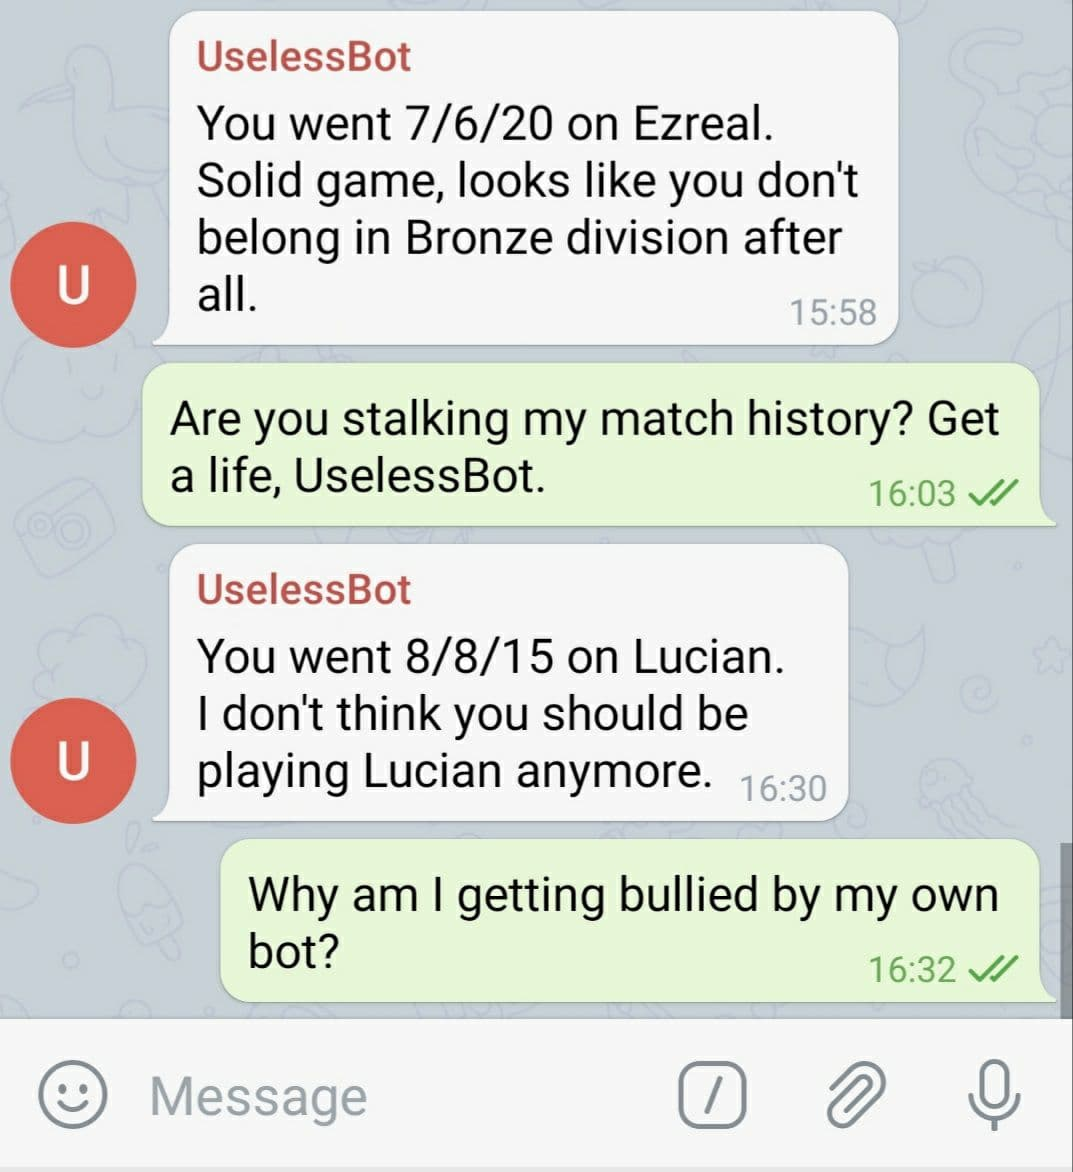
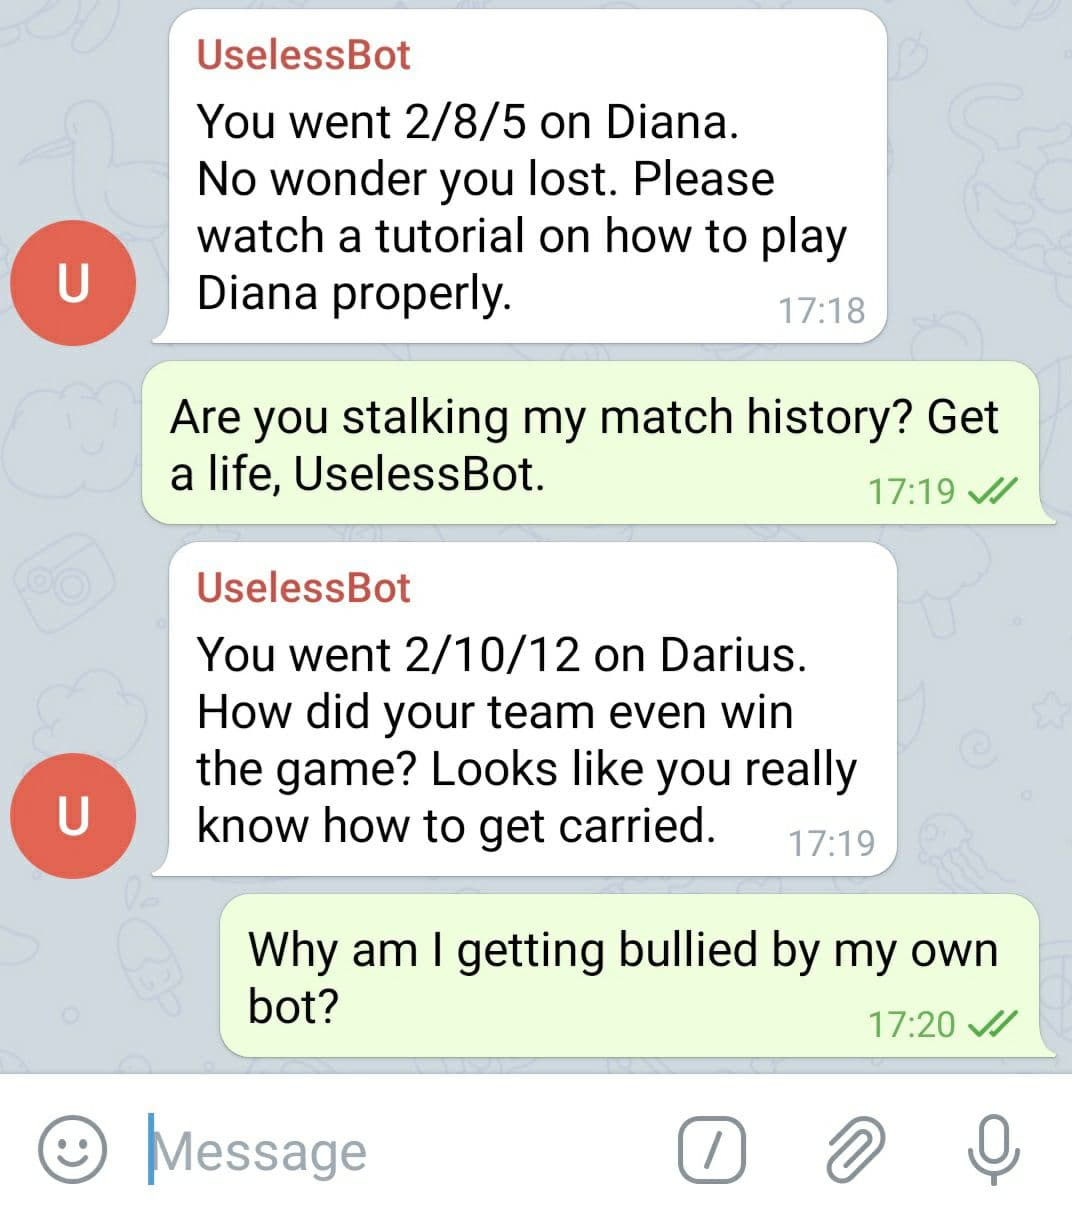
Cleanup.

Changed region(s): [[0.0, 0.0, 1.0, 0.9829]]

diff --git a/src/main/kotlin/leagueOfLegends/LeagueOfLegendsClient.kt b/src/main/kotlin/leagueOfLegends/LeagueOfLegendsClient.kt
@@ -20,13 +20,13 @@ import java.util.*
 // Additionally, it checks if the given user had a poor performance in any of the new matches.
 class LeagueOfLegendsClient(val apiKey: String, val region: String, val username: String) {
 
-    val dataDirectory = "league_of_legends${File.separator}player_data${File.separator}$username"
-    val matchHistoryFilePath = "$dataDirectory${File.separator}match_history_debug.json" // TODO: Remove debug
-    val MAX_NUMBER_OF_REQUESTS = 100 // Riot Games only allows 100 requests per 2 minutes.
-    lateinit var mostRecentMatchTimestamp: Calendar
-    lateinit var champions: JSONObject
-    lateinit var account: JSONObject
-    lateinit var matchHistory: JSONArray
+    private val dataDirectory = "league_of_legends${File.separator}player_data${File.separator}$username"
+    private val matchHistoryFilePath = "$dataDirectory${File.separator}match_history.json"
+    private val MAX_NUMBER_OF_REQUESTS = 100 // Riot Games only allows 100 requests per 2 minutes.
+    private lateinit var mostRecentMatchTimestamp: Calendar
+    private lateinit var champions: JSONObject
+    private lateinit var account: JSONObject
+    private lateinit var matchHistory: JSONArray
     lateinit var poorPerformances : LinkedList<Performance>
 
 
@@ -55,17 +55,17 @@ class LeagueOfLegendsClient(val apiKey: String, val region: String, val username
             findPoorPerformances()
         }
 
-        FileHandler.writeToFile("$matchHistoryFilePath", matchHistory) // TODO: Remove the debug path
+        FileHandler.writeToFile(matchHistoryFilePath, matchHistory)
         mostRecentMatchTimestamp = timestampToCalendar(getMatchFromHistory(0).getLong("timestamp"))
     }
 
     private fun fetchChampionsInformation() {
         // Get current patch version.
-        var request = DDragonRequest(apiKey, region, "api/versions.json")
+        var request = DDragonRequest(apiKey, "api/versions.json")
         var response: JSONObject = request.sendRequest(encapsulateJSONArray = true)
         val latestVersion = (response["versions"] as JSONArray)[0]
 
-        request = DDragonRequest(apiKey, region, "cdn/$latestVersion/data/en_US/champion.json")
+        request = DDragonRequest(apiKey, "cdn/$latestVersion/data/en_US/champion.json")
         response = request.sendRequest()
         champions = response.getField("data")
     }
@@ -85,7 +85,7 @@ class LeagueOfLegendsClient(val apiKey: String, val region: String, val username
         return if (response.isEmpty) JSONArray() else response["matches"] as JSONArray
     }
 
-    fun fetchMatchInfo(gameId: Long): JSONObject {
+    private fun fetchMatchInfo(gameId: Long): JSONObject {
         val request = LoLMatchInfoRequest(apiKey, region, gameId.toString())
         return request.sendRequest()
     }

diff --git a/src/main/kotlin/leagueOfLegends/Performance.kt b/src/main/kotlin/leagueOfLegends/Performance.kt
@@ -1,6 +1,7 @@
 package leagueOfLegends
 
 import org.json.JSONObject
+import kotlin.math.exp
 
 // A Performance contains all the information about a given user in a given match. This information includes
 // the number of kills, deaths etc.
@@ -9,10 +10,6 @@ import org.json.JSONObject
 class Performance(val match: JSONObject, val protagonistStats: JSONObject, val protagonistTeam: JSONObject,
                   val antagonistStats: JSONObject?, val champion: JSONObject, val win: Boolean) {
 
-//    init {
-//        // TODO: Delete block
-//        println("\n$protagonistStats")
-//    }
     val kills = protagonistStats.getInt("kills")
     val deaths = protagonistStats.getInt("deaths")
     val assists = protagonistStats.getInt("assists")
@@ -22,10 +19,7 @@ class Performance(val match: JSONObject, val protagonistStats: JSONObject, val p
     var isPoor: Boolean = isPoorPerformance()
 
     private fun isPoorPerformance(): Boolean {
-        // If the protagonistStats lost the game and had a negative kda, it is considered a bad performance.
-        println("performanceScore: $performanceScore")
-        return true //TODO: Remove
-//        return !win && kda < 1
+        return performanceScore < 0.3
     }
 
     /*
@@ -44,8 +38,8 @@ class Performance(val match: JSONObject, val protagonistStats: JSONObject, val p
         return (teamScore + 2 * individualScore) / 3
     }
 
-    fun computeIndividualScore(localKda: Double): Double {
-        val kdaScore = computeNormalizedScore(kda)
+    private fun computeIndividualScore(localKda: Double): Double {
+        val kdaScore = computeNormalizedScore(localKda)
         return if (antagonistStats != null) {
             val duelScore = computeDuelScore()
             (kdaScore + duelScore) / 2
@@ -55,7 +49,7 @@ class Performance(val match: JSONObject, val protagonistStats: JSONObject, val p
     }
 
     private fun computeDuelScore(): Double {
-        // The following branch is required to smart-cast "angatonistStats" to a non-null type.
+        // The following branch is required to smart-cast "antagonistStats" to a non-null type.
         if (antagonistStats == null) {
             return -1.0
         }
@@ -87,7 +81,7 @@ class Performance(val match: JSONObject, val protagonistStats: JSONObject, val p
      *  - As the KDA goes towards infinity, the score goes towards 1.
      */
     private fun computeNormalizedScore(value: Double) =
-        if (value <= 1)  value/2 else 1/(1+Math.exp(1-value))
+        if (value <= 1)  value/2 else 1/(1+ exp(1-value))
 
     override fun toString(): String {
         "You went $kills/$deaths/$assists on $champion"

diff --git a/src/main/kotlin/leagueOfLegends/MessageGenerator.kt b/src/main/kotlin/leagueOfLegends/MessageGenerator.kt
@@ -7,7 +7,7 @@ object MessageGenerator {
     fun generateMessage(performance: Performance): String {
         val potentialMessages = if (performance.win) generateWinMessage(performance) else generateDefeatMessage(performance)
         return "${generateGameSummary(performance)}$LINE_BREAK" +
-               "${potentialMessages.random()}"
+               potentialMessages.random()
     }
 
     private fun generateGameSummary(performance: Performance): String {
@@ -18,13 +18,14 @@ object MessageGenerator {
     private fun generateDefeatMessage(performance: Performance): List<String> {
         val champion = performance.champion.getString("name")
         val individualScore = performance.individualScore
+        val phrase = "No wonder you lost."
         return if (individualScore < 0.5) {
             listOf(
-                "Are you intentionally losing games to start smurfing again?",
+                "$phrase Are you intentionally losing games to start smurfing again?",
                 "Here is a link to uninstall League of Legends: https://gamerone.gg/how-to-uninstall-league-of-legends." +
-                        "Please follow the instructions.",
-                "I don't think you should be playing $champion anymore.",
-                "Please watch a tutorial on how to play $champion properly."
+                        " Please follow the instructions.",
+                "$phrase I don't think you should be playing $champion anymore.",
+                "$phrase Please watch a tutorial on how to play $champion properly."
             )
         } else if (individualScore < 0.7) {
             listOf(
@@ -42,11 +43,12 @@ object MessageGenerator {
 
     private fun generateWinMessage(performance: Performance): List<String> {
         val individualScore = performance.individualScore
+        val phrase = "How did your team even win the game?"
         return if (individualScore < 0.5) {
             listOf(
-                "Looks like all you really know how to get carried.",
-                "How can you play so badly when you are in such a good team?",
-                "Boosted."
+                "$phrase Looks like you really know how to get carried.",
+                "$phrase How can you play so badly when you are in such a good team?",
+                "$phrase Boosted."
             )
         } else if (individualScore < 0.7) {
             listOf(

diff --git a/src/main/kotlin/requests/Request.kt b/src/main/kotlin/requests/Request.kt
@@ -15,19 +15,25 @@ import kotlin.system.exitProcess
 // The class provides logic to deal with different (successful and failed) HTTP responses.
 abstract class Request(val apiKey: String) {
 
-    var logger: Logger = Logger.getLogger(Request::class.java)
+    private var logger: Logger = Logger.getLogger(Request::class.java)
 
-    val MAX_FAILED_REQUEST = 5
-    val BACKOFF_TIME: Long = 2000
+    // Some API servers (e.g. Riot Games) have rate limits that are computed for every 2 minutes.
+    // This is why it makes sense to back off up to a minutes between attempted requests.
+    private val MAX_FAILED_REQUEST = 7
+    private val INITIAL_BACKOFF_TIME: Long = 2000
+    private var currentBackoffTime = INITIAL_BACKOFF_TIME // Increases exponentially
 
     abstract fun getUrl(): String
 
+    private fun cleanUrl(urlString: String): String {
+        return urlString.replace(" ", "+")
+    }
+
     abstract fun setHeader(con: HttpURLConnection)
 
-    fun sendSingleRequest(encapsulateJSONArray: Boolean): JSONObject {
+    private fun sendSingleRequest(encapsulateJSONArray: Boolean): JSONObject {
         val response: JSONObject?
-        val urlString = getUrl()
-        println("urlString: $urlString") // TODO: Delete
+        val urlString = cleanUrl(getUrl())
         val url = URL(urlString)
         val con = url.openConnection() as HttpURLConnection
         setHeader(con)
@@ -75,6 +81,7 @@ abstract class Request(val apiKey: String) {
             try {
                 accountResponse = sendSingleRequest(encapsulateJSONArray)
                 numFailedRequests = 0
+                currentBackoffTime = INITIAL_BACKOFF_TIME
             } catch (e: Exception) {
                 numFailedRequests++
                 if (numFailedRequests >= MAX_FAILED_REQUEST) {
@@ -83,7 +90,8 @@ abstract class Request(val apiKey: String) {
                     exitProcess(-1)
                 }
 
-                Thread.sleep(BACKOFF_TIME)
+                Thread.sleep(currentBackoffTime)
+                currentBackoffTime *= 2
             }
         }
 

diff --git a/src/main/kotlin/Controller.kt b/src/main/kotlin/Controller.kt
@@ -3,12 +3,12 @@ import leagueOfLegends.MessageGenerator
 import org.apache.log4j.Logger
 import requests.TelegramSendMessageRequest
 import telegram.TelegramBot
-import java.util.Properties;
+import java.util.Properties
 
 // The Controller is the central unit of the program. Periodically, it uses the LeagueOfLegendsClient to fetch
 // the latest match history for a given user. If the user had a poor performance in any of the matches, the
 // Controller uses the TelegramBot to send a message based on that performance to the user.
-class Controller(val properties: Properties) {
+class Controller(properties: Properties) {
 
     var logger: Logger = Logger.getLogger(Controller::class.java)
 
@@ -36,7 +36,7 @@ class Controller(val properties: Properties) {
                 val message = MessageGenerator.generateMessage(poorPerformances.first)
                 print(message)
                 val request = TelegramSendMessageRequest(telegramBot.apiKey, telegramBot.chatId, message)
-                val response = request.sendRequest()
+                request.sendRequest()
             }
 
             logger.info("Sleeping for $sleepDuration ms.")

diff --git a/src/main/kotlin/leagueOfLegends/MatchDataOrganizer.kt b/src/main/kotlin/leagueOfLegends/MatchDataOrganizer.kt
@@ -21,8 +21,7 @@ class MatchDataOrganizer(val match: JSONObject, val champions: JSONObject, val p
 
         val win = protagonistTeam.get("win") == "Win"
         val champion = getChampion(protagonist.getInt("championId"))
-        val performance = Performance(match, protagonistStats, protagonistTeam, antagonistStats, champion, win)
-        return performance
+        return Performance(match, protagonistStats, protagonistTeam, antagonistStats, champion, win)
     }
 
     private fun getProtagonist(): JSONObject {

diff --git a/src/main/kotlin/FileHandler.kt b/src/main/kotlin/FileHandler.kt
@@ -9,7 +9,7 @@ import java.util.Properties
 // The FileHandler is responsible for I/O operations. Its main purpose is to read and write files.
 object FileHandler {
 
-    val CONFIG_FILE_PATH = "src${File.separator}main${File.separator}resources${File.separator}config.properties"
+    private val CONFIG_FILE_PATH = "src${File.separator}main${File.separator}resources${File.separator}config.properties"
 
     fun fileExists(filePath: String): Boolean {
         return File(filePath).exists()

diff --git a/src/main/kotlin/requests/DDragonRequest.kt b/src/main/kotlin/requests/DDragonRequest.kt
@@ -3,7 +3,7 @@ package requests
 import java.net.HttpURLConnection
 
 // A DDragonRequest represents an HTTP GET request to the Data Dragon API server.
-class DDragonRequest(apiKey: String, val region: String, val urlPath: String) : Request(apiKey) {
+class DDragonRequest(apiKey: String, val urlPath: String) : Request(apiKey) {
 
     val urlDomain = "https://ddragon.leagueoflegends.com"
 

diff --git a/README.md b/README.md
@@ -5,7 +5,7 @@ evaluated. Based on the computed score of the performance, a Telegram bot will a
 Use case: Track your friend's matches and automatically send some **friendly** banter if they don't have good
 performances.
 
-![Image](example/telegram_bot_messages.jpg){:height="50%" width="50%"}
+![Image](example/telegram_bot_messages.jpg)
 
 ## Preface
 The main goal of this project was for me to practice my newly acquired Kotlin skills.
@@ -24,7 +24,7 @@ Note: The program runs on Windows and UNIX-based systems.
    the bot "@getidsbot" to the chat.
 2. Create the file `config.properties` under `src/main/resources`. The file [example/config.properties](example/config.properties)
    shows you which properties need to be provided.\
-   Warning: Make sure to capitalize the property values correctly and remove any whitespaces.
+   Warning: Make sure to capitalize the property values correctly and remove any trailing whitespaces.
 3. From the root directory of the project run `gradlew uberJar` (or `./gradlew uberJar` on a UNIX-based system).
 4. Run `java -jar build\libs\GameTracker-1.0.jar`
 

diff --git a/TODO.md b/TODO.md
@@ -1,13 +1,8 @@
 # TODO
 
-- Add documentation
-    - Create a README with pictures (e.g. Telegram screenshot)
-- Download champion JSON file and add it to the repo using gradle.
-    - Load the JSON into Kotlin
 - Write comments
 - Reduce visibility classifiers wherever possible
-- Look for "here", "todo" and "debug" in the files
-- **Check out usernames that contain white spaces"
+- Look for "here", "println", "todo" and "debug" in the files
 - Create exponential backoff in "Request"
 
 
